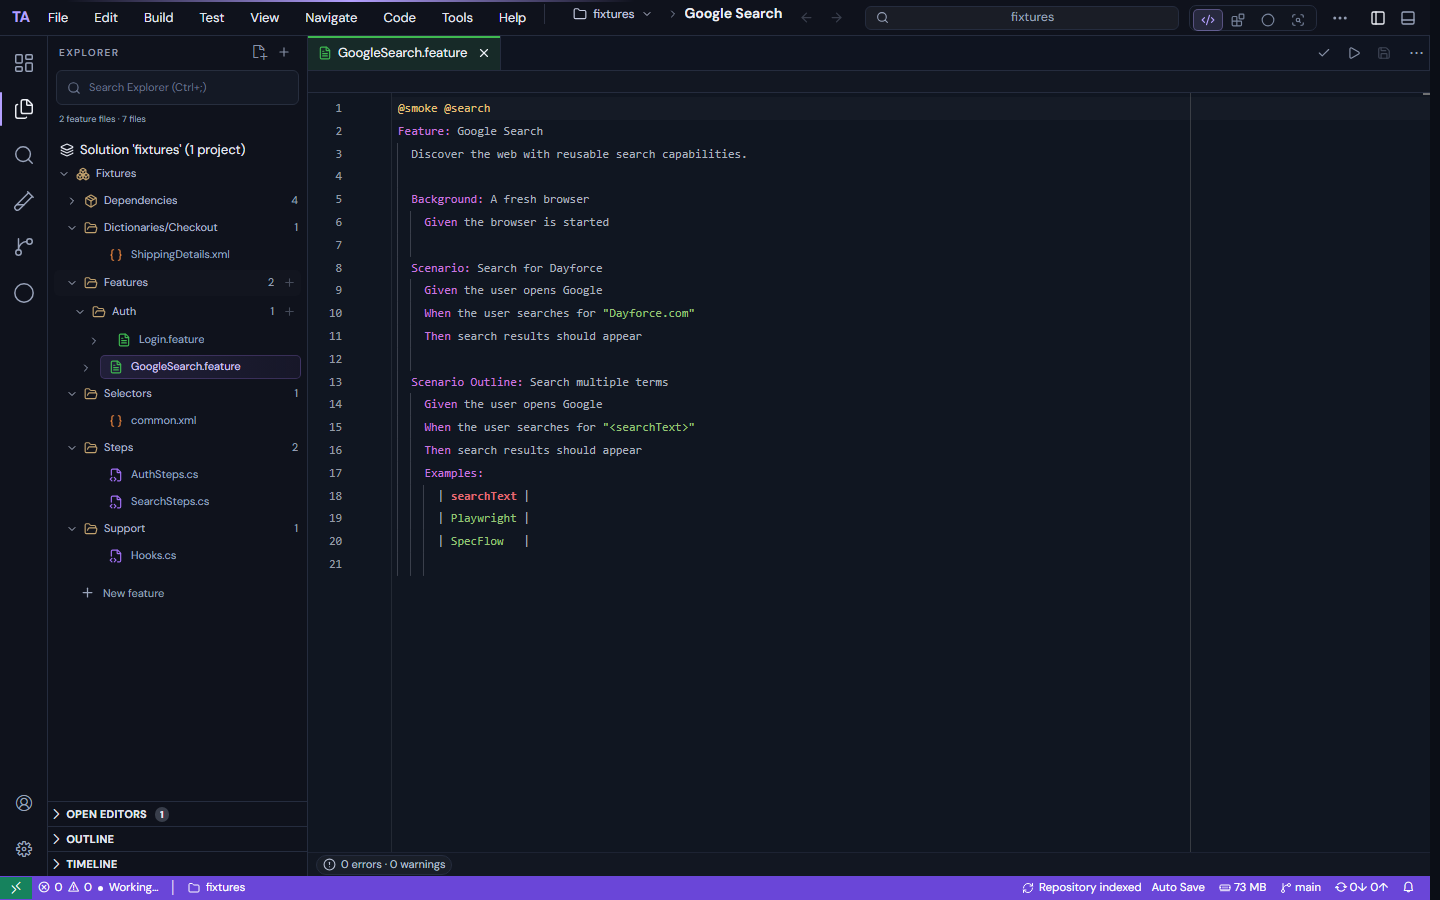
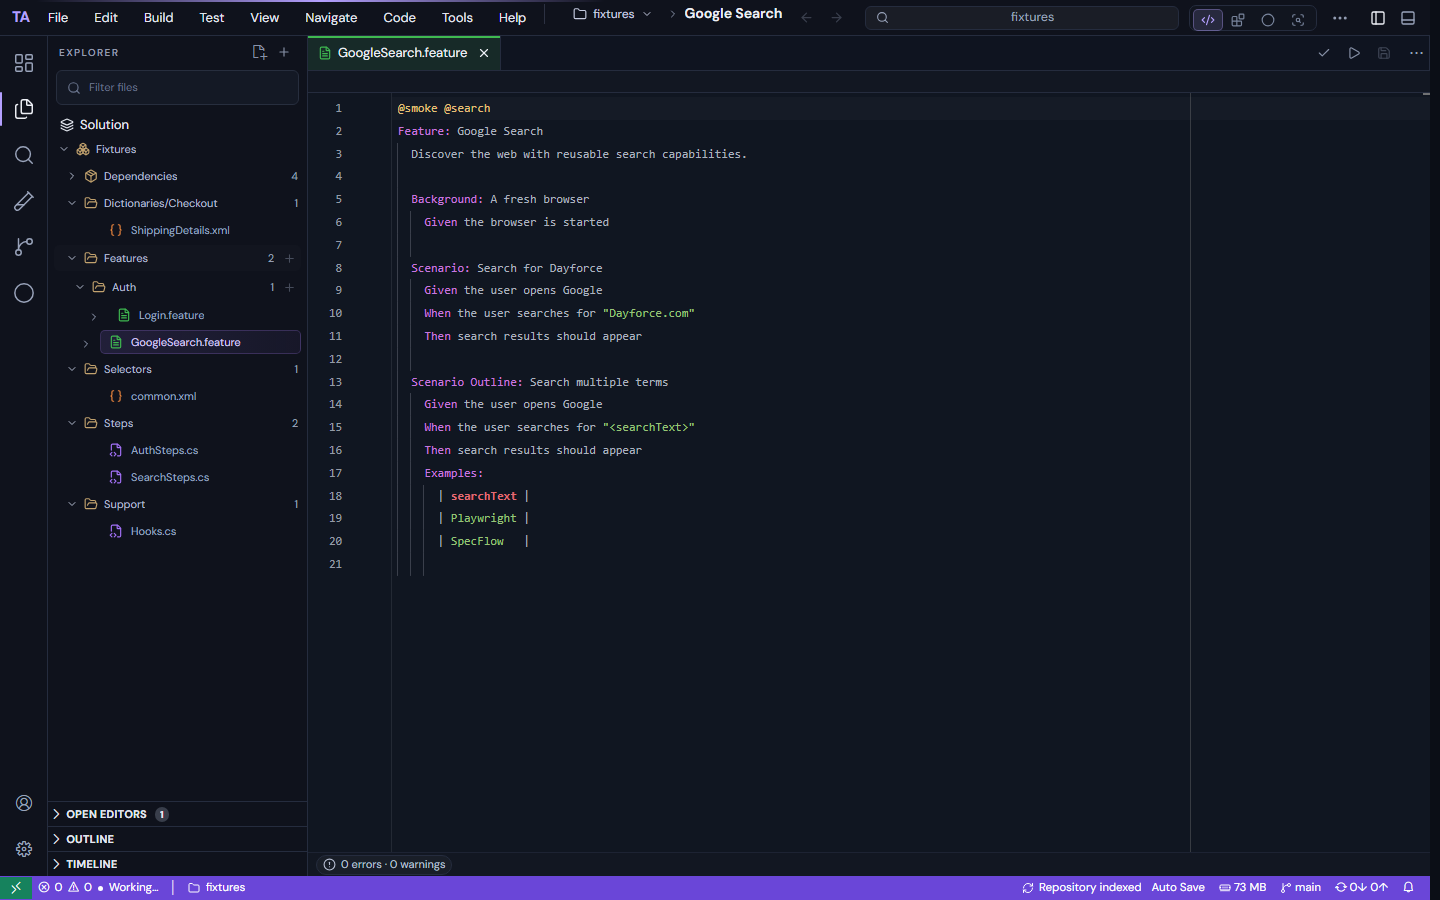
fix(web): simplify Solution Explorer text

Changed region(s): [[0.0312, 0.0933, 0.1875, 0.6222], [0.0625, 0.6533, 0.125, 0.6844]]

diff --git a/test-authoring-studio/src/SolutionExplorer.tsx b/test-authoring-studio/src/SolutionExplorer.tsx
@@ -654,15 +654,15 @@ export default function SolutionExplorer({ features, revision, activeFile, query
       </div>
       <label className="search-box">
         <Search size={14} />
-        <input aria-label="Search Explorer" placeholder="Search Explorer (Ctrl+;)" value={query} onChange={(e) => onQuery(e.target.value)} onKeyDown={(e) => { if (e.key === 'Escape' && query) { e.stopPropagation(); onQuery(''); } }} />
+        <input aria-label="Search Explorer" placeholder="Filter files" title="Search Explorer (Ctrl+;)" value={query} onChange={(e) => onQuery(e.target.value)} onKeyDown={(e) => { if (e.key === 'Escape' && query) { e.stopPropagation(); onQuery(''); } }} />
         {query && <button className="icon-button" aria-label="Clear search" onClick={() => onQuery('')}><X size={13} /></button>}
         {/* VS Code's tree find (W98): filter the tree (default) or only highlight what matches. */}
         <button className={`icon-button find-mode ${findMode === 'filter' ? 'on' : ''}`} aria-label={findMode === 'filter' ? 'Find mode: filter' : 'Find mode: highlight'} aria-pressed={findMode === 'filter'} title={findMode === 'filter' ? 'Filter (click to only highlight)' : 'Highlight (click to filter)'} onClick={() => setFindMode(findMode === 'filter' ? 'highlight' : 'filter')}><span className="codicon codicon-list-filter" aria-hidden="true" /></button>
       </label>
       {scope && <div className="se-scope" aria-label="Explorer scope"><Focus size={12} aria-hidden="true" /><span title={scope}>Scoped to <strong>{scope}</strong></span><button className="icon-button" aria-label="Home (show the whole solution)" title="Home" onClick={() => setScope('')}><House size={13} /></button></div>}
-      <div className="explorer-summary" role="status">
-        {pendingOnly ? `${files.length} file${files.length === 1 ? '' : 's'} with unsaved changes` : query.trim() ? `${files.length} matching file${files.length === 1 ? '' : 's'}` : `${features.length} feature file${features.length === 1 ? '' : 's'} · ${files.length} file${files.length === 1 ? '' : 's'}`}
-      </div>
+      {(pendingOnly || query.trim()) && <div className="explorer-summary" role="status">
+        {pendingOnly ? `${files.length} file${files.length === 1 ? '' : 's'} with unsaved changes` : `${files.length} matching file${files.length === 1 ? '' : 's'}`}
+      </div>}
       <nav className="folder-tree se-tree" ref={tree} aria-label="Solution" onKeyDown={treeKeys} onScroll={(e) => { if (featureOn('explorer-scroll')) { const top = e.currentTarget.scrollTop; clearTimeout(scrollSave.current); scrollSave.current = window.setTimeout(() => { try { sessionStorage.setItem(collapsedKey().replace('Collapsed', 'Scroll'), String(top)); } catch { /* storage blocked */ } }, 200); } }}>
         <ul className="folder-children">
           <li>
@@ -670,7 +670,7 @@ export default function SolutionExplorer({ features, revision, activeFile, query
               { label: 'Add New Project…', icon: Plus, onSelect: () => setAdding({ kind: 'new', template: 'nunit', name: '', folder: '' }) },
               { label: 'Add Existing Project…', icon: Boxes, onSelect: () => setAdding({ kind: 'existing', path: '' }) },
             ] : []}>
-            <div className="se-row se-solution" data-menu-row><Layers size={14} aria-hidden="true" /><span title={solution?.solutionFile ?? undefined}>Solution '{solution?.name ?? '…'}' ({projects.length} project{projects.length === 1 ? '' : 's'})</span></div>
+            <div className="se-row se-solution" data-menu-row><Layers size={14} aria-hidden="true" /><span title={solution?.solutionFile ?? `Solution '${solution?.name ?? '…'}' (${projects.length} project${projects.length === 1 ? '' : 's'})`}>{projects.length === 1 && solution?.name?.toLowerCase() === projects[0]?.name.toLowerCase() ? 'Solution' : `Solution '${solution?.name ?? '…'}' (${projects.length} project${projects.length === 1 ? '' : 's'})`}</span></div>
             </RowMenu>
             {adding && (
               <form className="se-add-project" aria-label={adding.kind === 'new' ? 'Add New Project' : 'Add Existing Project'} onSubmit={(e) => { e.preventDefault(); void addProject(); }}>
@@ -712,7 +712,7 @@ export default function SolutionExplorer({ features, revision, activeFile, query
         </ul>
       </nav>
       {!files.length && <p className="explorer-empty">{pendingOnly ? 'No unsaved changes.' : query.trim() ? 'Nothing matches your search.' : 'No files yet.'}</p>}
-      <button className="new-feature" onClick={() => onNew()}><Plus size={15} />New feature</button>
+      {!files.length && <button className="new-feature" onClick={() => onNew()}><Plus size={15} />New feature</button>}
     </section>
   );
 }

diff --git a/test-authoring-studio/tests/e2e/solution-explorer.spec.ts b/test-authoring-studio/tests/e2e/solution-explorer.spec.ts
@@ -1,10 +1,11 @@
 import { test, expect } from '@playwright/test';
 
 test('Solution Explorer: solution → project → dependencies → folders, nesting, open C#, search and filters', async ({ page }) => {
+  await page.addInitScript(() => localStorage.setItem('tas:settings', JSON.stringify({ 'workbench.controls.explorer-pending': true })));
   await page.goto('/#/features/editor');
   const se = page.getByRole('region', { name: 'Explorer' });
   // First page after the dev server starts: the solution model can take a few seconds.
-  await expect(se.getByText("Solution 'fixtures' (1 project)")).toBeVisible({ timeout: 30_000 });
+  await expect(se.getByText('Solution', { exact: true })).toBeVisible({ timeout: 30_000 });
   await expect(se.getByRole('button', { name: 'Collapse project Fixtures' })).toBeVisible();
   await se.getByRole('button', { name: 'Expand Dependencies' }).click();
   await expect(se.getByText('SpecFlow.NUnit')).toBeVisible();
